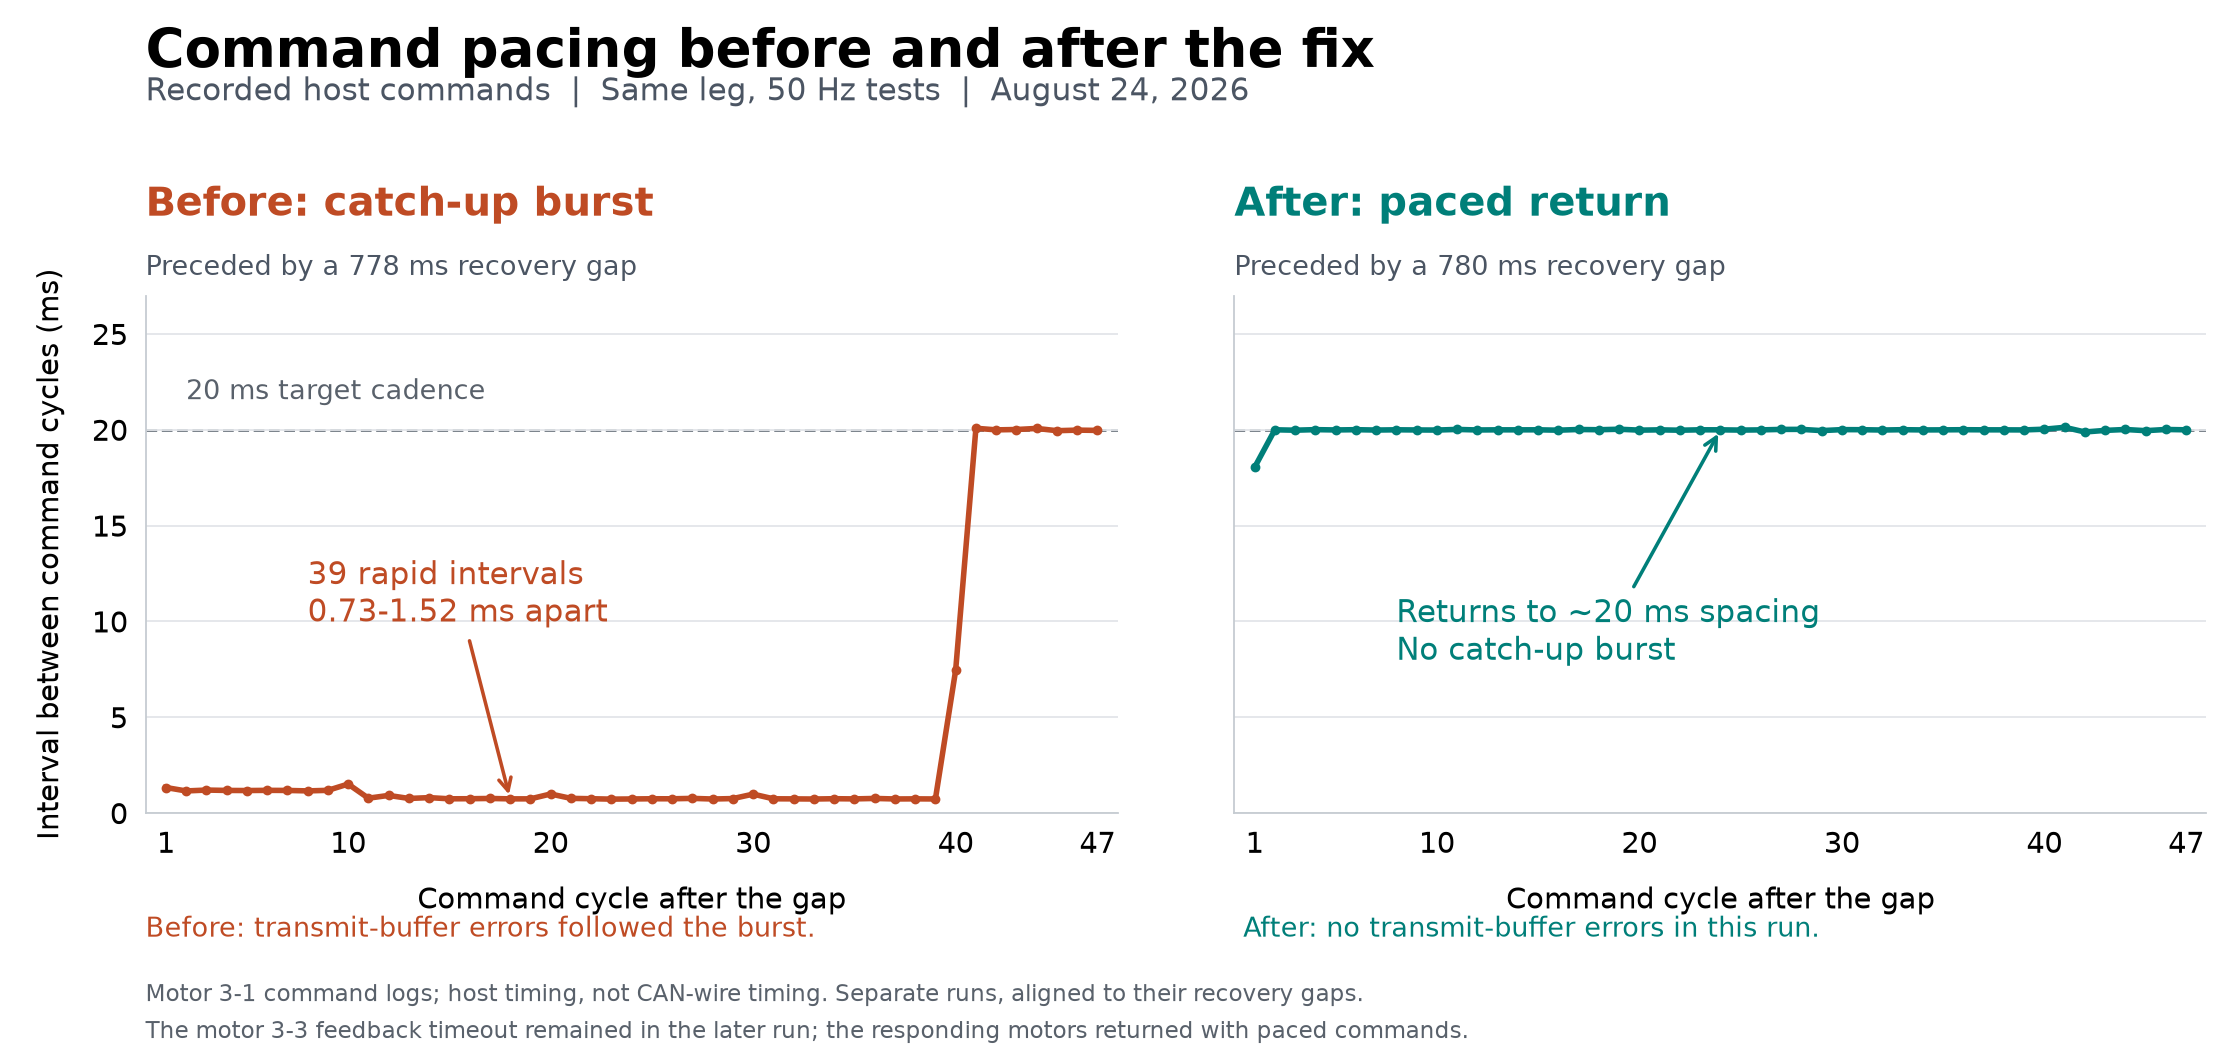
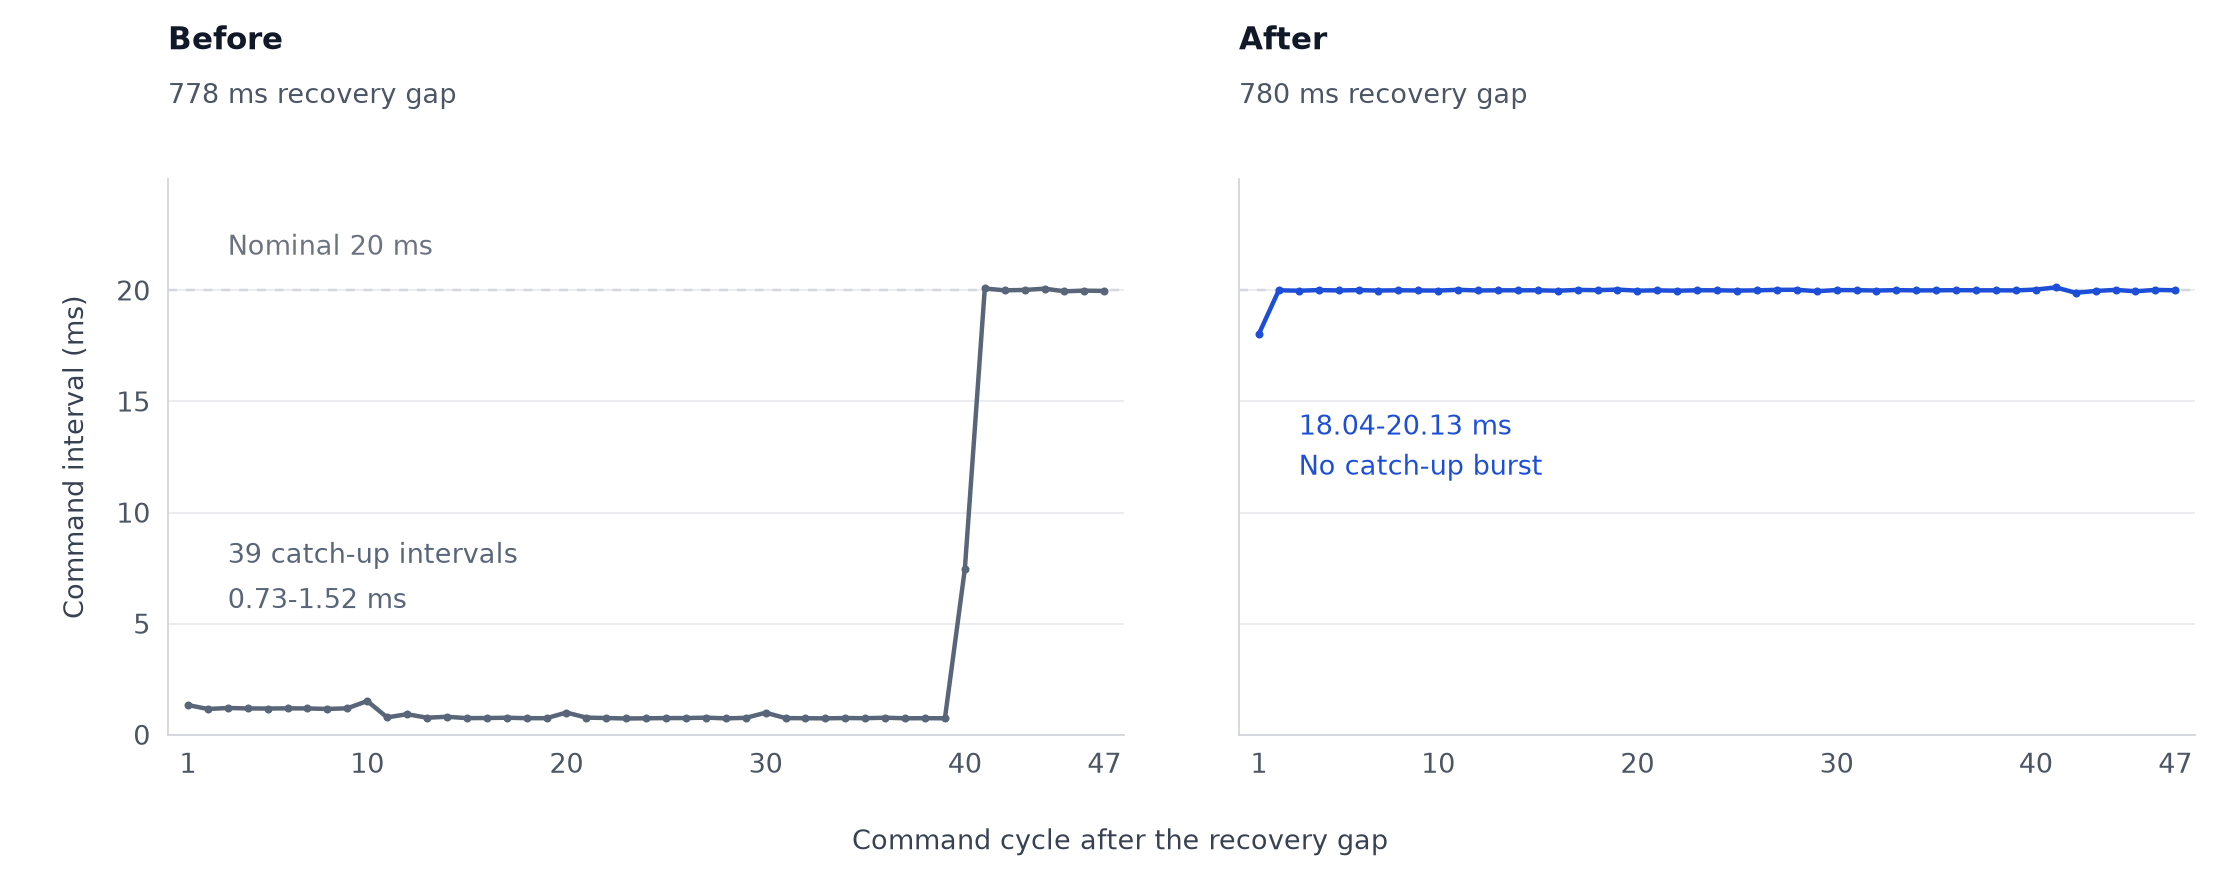
Polish presentation typography and simplify command timing chart

diff --git a/src/config.ts b/src/config.ts
@@ -16,25 +16,12 @@ aboutMe:
 skills: [
 "Python",
 "C++",
-"PyTorch",
-"OpenCV",
 "ROS 2",
-"Reinforcement Learning",
-"Deep Learning",
-"Natural Language Processing",
-"Model Evaluation",
-"Linux",
-"Git",
-"Docker",
-"GCP Compute Engine",
+"OpenCV",
+"PyTorch",
 "Control Systems",
-"MATLAB",
 "Hardware Integration",
 "SolidWorks",
-"GD&T",
-"FEA",
-"Additive Manufacturing",
-"Laser Cutting",
 ],
 tripteronStudy: {
 commonY: 600, grid: 5, hingeBuffer: 15, railBuffer: 20,
